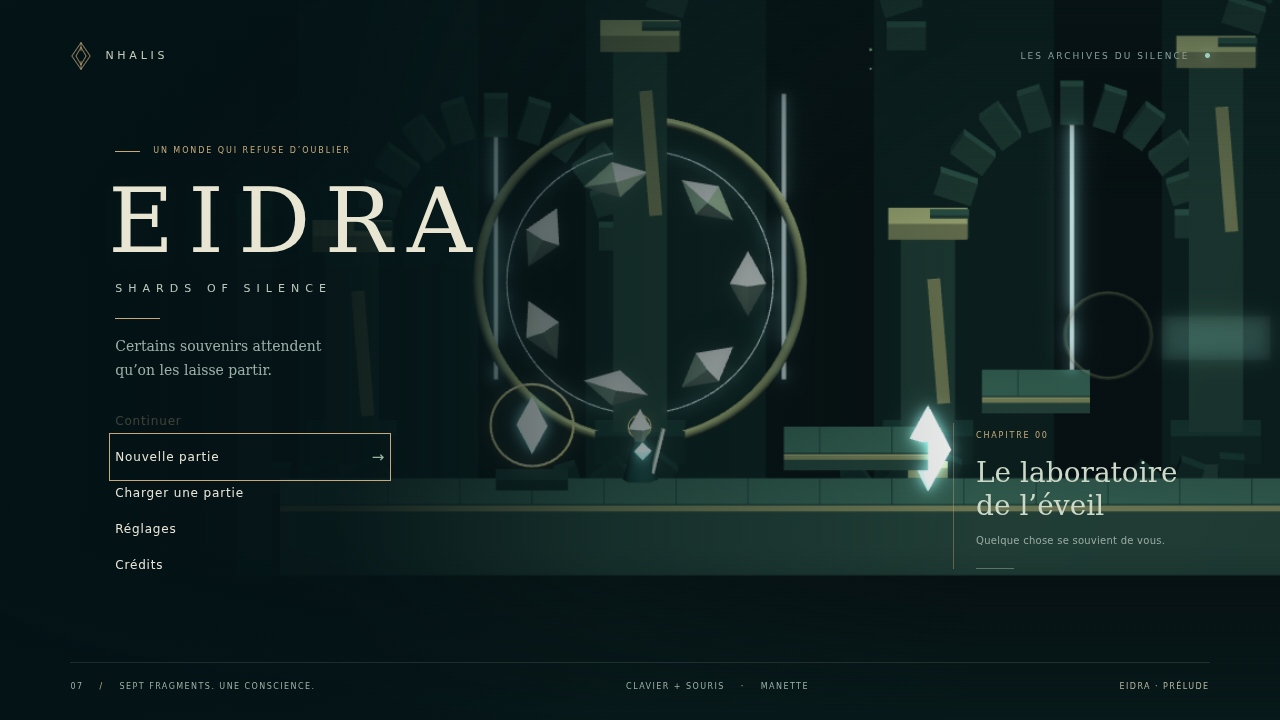
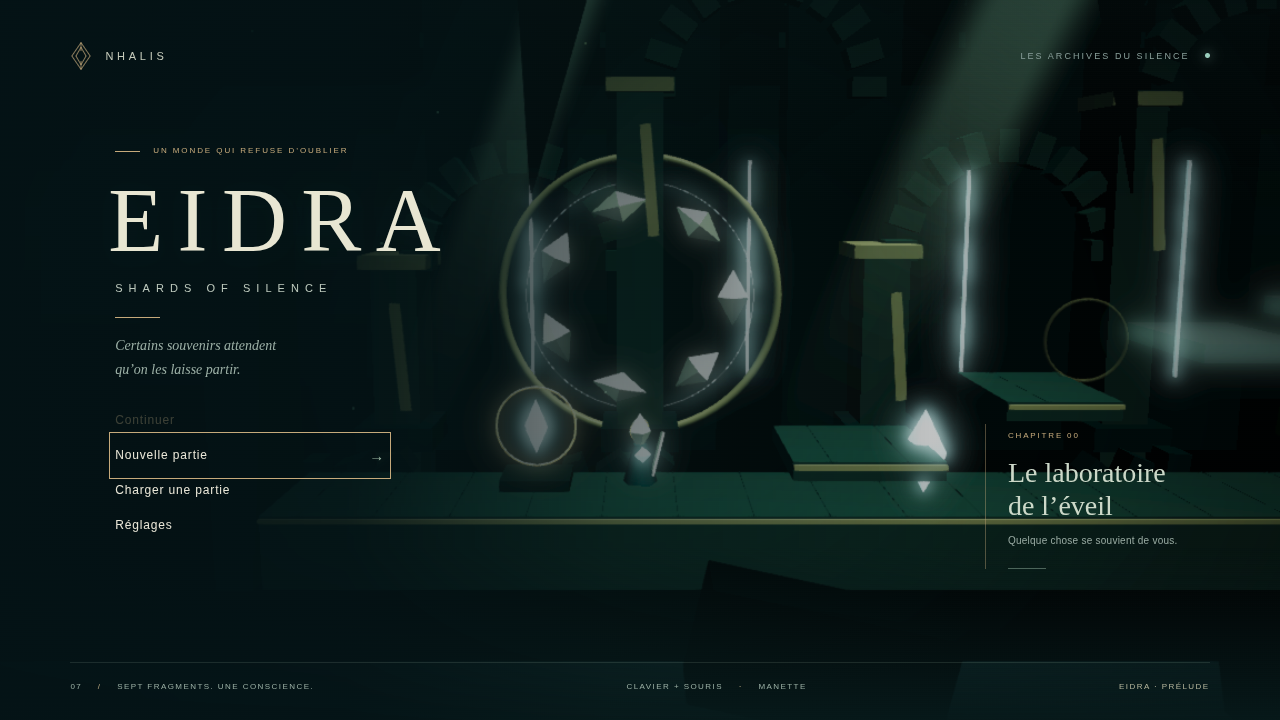
Document the modern game-feel update and refresh performance evidence
- README: new controls (downward strike, riposte, Recueillement, altar)
  and the presentation features.
- GAME_DESIGN, ART_DIRECTION, ARCHITECTURE: mechanics, boss phase two,
  depth layers and the new event/VFX modules.
- DECISIONS D013-D017: perspective camera, single grading pass, fixed-
  step hit-stop, progression without a save version bump, shared RT.
- PERFORMANCE: before/after on the same machine with per-feature costs;
  MEDIUM +11 % software render time, LOW unchanged, CPU unchanged.
- TESTING, RELEASE_NOTES, ROADMAP: coverage, E2E robustness fixes and
  known limits (values not yet playtested, no new sounds).

Claude-Session: https://claude.ai/code/session_01Q4HpwgZSs3YSowU4xBjobR

diff --git a/README.md b/README.md
@@ -24,26 +24,30 @@ Ouvrir l'adresse indiquée par Vite, généralement http://127.0.0.1:4173. Ne pa
 
 ## Commandes
 
-| Action                         | Clavier / souris                       | Manette standard     |
-| ------------------------------ | -------------------------------------- | -------------------- |
-| Déplacement                    | A / D ou flèches                       | Stick gauche / croix |
-| Marcher                        | Ctrl maintenu                          | Stick partiel        |
-| Saut                           | Espace, W ou flèche haut               | A                    |
-| Attaque légère / aérienne      | J / clic gauche                        | X                    |
-| Charger une attaque            | K / clic droit maintenu, puis relâcher | LT                   |
-| Esquive, après acquisition     | Maj                                    | B                    |
-| Parade                         | L                                      | LB                   |
-| Rémanence, après acquisition   | Q                                      | Y                    |
-| Memory Step, après acquisition | R                                      | RB                   |
-| Dialogue / ancrage / passage   | E                                      | RT                   |
-| Carte et souvenirs             | Tab                                    | View                 |
-| Pause                          | Échap                                  | Start                |
+| Action                            | Clavier / souris                       | Manette standard      |
+| --------------------------------- | -------------------------------------- | --------------------- |
+| Déplacement                       | A / D ou flèches                       | Stick gauche / croix  |
+| Marcher                           | Ctrl maintenu                          | Stick partiel         |
+| Saut                              | Espace, W ou flèche haut               | A                     |
+| Attaque légère / aérienne         | J / clic gauche                        | X                     |
+| Plongée (rebond « pogo »)         | S ou flèche bas + attaque, en l’air    | Stick / croix bas + X |
+| Charger une attaque               | K / clic droit maintenu, puis relâcher | LT                    |
+| Esquive, après acquisition        | Maj                                    | B                     |
+| Parade, puis riposte ×2           | L, puis attaque dans la seconde        | LB, puis X            |
+| Recueillement (soin)              | F maintenu, immobile                   | RT maintenu           |
+| Rémanence, après acquisition      | Q                                      | Y                     |
+| Memory Step, après acquisition    | R                                      | RB                    |
+| Dialogue / ancrage / autel / pass | E                                      | RT                    |
+| Carte et souvenirs                | Tab                                    | View                  |
+| Pause                             | Échap                                  | Start                 |
 
-Touches remappables dans Réglages. Assistance facultative : dégâts reçus réduits. La manette permet également de parcourir les boutons des menus avec le stick vertical / la croix et A. Le réglage des sliders reste accessible au clavier / à la souris.
+Touches remappables dans Réglages. Les invites à l’écran suivent le dernier périphérique utilisé (clavier ou manette). Assistance facultative : dégâts reçus réduits. La manette permet également de parcourir les boutons des menus avec le stick vertical / la croix et A. Le réglage des sliders reste accessible au clavier / à la souris.
 
 ## Contenu jouable
 
-Cinq secteurs du laboratoire ; mouvement avec coyote time et jump buffer ; capsule Havok ; dash ; attaques légère, chargée, aérienne et pendant le dash ; combo ; parade ; trois archétypes ennemis ; mini-boss ; Gardien Sans Visage avec trois patterns et deux phases ; Rémanence ; Écho de cinq secondes ; contrepoids ; raccourci de maintenance ; deux souvenirs ; Mira ; transmission de Sael ; ancrages ; trois sauvegardes ; carte ; mort et respawn ; musique et sons originaux temporaires ; quatre presets.
+Cinq secteurs du laboratoire ; mouvement avec coyote time et jump buffer ; capsule Havok ; dash ; attaques légère, chargée, aérienne, plongeante (pogo) et pendant le dash, avec tampon d’entrée ; combo ; parade et riposte ; hit-stop ; Recueillement (soin alimenté par la résonance des coups portés) ; trois archétypes ennemis ; mini-boss ; Gardien Sans Visage avec quatre patterns, deux phases et une transition ; Rémanence ; Écho de cinq secondes ; contrepoids ; raccourci de maintenance ; deux souvenirs ; Mira ; transmission de Sael ; ancrages et autel d’offrandes (éclats → vitalité) ; trois sauvegardes ; carte ; mort et respawn ; musique et sons originaux temporaires ; quatre presets.
+
+Présentation : caméra perspective à longue focale (parallaxe réelle des décors et silhouettes de premier plan), étalonnage ACES et vignette dans les shaders, rayons de lumière, ciel en dégradé, rim light des personnages, squash & stretch, traînée de dash, poussière d’atterrissage, flash blanc à l’impact, dissolution des ennemis, éclats attirés vers Eidra, chiffres de dégâts, barres de vie ennemies, barres « chip », cartes de titre (zones, boss, victoires), bannière de pouvoir, dialogues tapés, invites adaptées au périphérique.
 
 Les sept fragments et trois fins sont définis et leurs conditions sont testées dans le domaine narratif. Ils **ne constituent pas encore une campagne jouable**. Les autres pouvoirs, régions et boss restent dans la roadmap. La durée de 15–20 minutes est une cible de conception, non une durée certifiée par playtest.
 

diff --git a/docs/ROADMAP.md b/docs/ROADMAP.md
@@ -2,26 +2,26 @@
 
 ## État livré : prélude jouable du laboratoire
 
-| Phase                                | État                              | Limite / gate restant                                 |
-| ------------------------------------ | --------------------------------- | ----------------------------------------------------- |
-| 0 — Stack, dépôt, scène, docs, tests | Réalisée                          | Git local ; GitHub connecté, dépôt non accessible     |
-| 1 — Contrôleur, caméra, input        | Jouable et testé                  | Wall slide / wall jump pour la campagne future        |
-| 2 — Combat, dégâts, mort             | Jouable et testé                  | Animation finale et équilibrage humain                |
-| 3 — FSM et trois ennemis             | Jouable et testé                  | Animations finales                                    |
-| 4 — Mini-boss / architecture boss    | Jouable                           | Identité artistique à affiner                         |
-| 5 — Rémanence / Memory Step          | Jouable et testé                  | Playtests puzzles / lisibilité                        |
-| 6 — Sauvegardes, ancrages, respawn   | Réalisée pour le slice            | Qualification quotas / autres navigateurs             |
-| 7 — Streaming et transitions         | Réalisée pour le slice            | Ressources bornées, retour par conduit                |
-| 8 — Biome du slice                   | Prototype jouable                 | Art Blender final, durée et rythme à valider          |
-| 9 — Boss qualité production          | Prototype avancé                  | Trois patterns, deux phases ; polish final restant    |
-| 10 — Narration                       | Prélude jouable + bible           | Révélations et campagne entière restantes             |
-| 11 — Neuf régions                    | Planifiées                        | Interdites avant gate qualité du slice                |
-| 12 — Sept boss principaux            | Planifiés                         | Seul le Gardien est jouable                           |
-| 13 — Audio / VFX / shaders           | Intégration prototype             | Musique, rigs, VFX et textures de production restants |
-| 14 — Performance                     | Instrumentée et mesurée           | 60 FPS sur GPU moyen non certifiés                    |
-| 15 — Accessibilité / input           | Intégrée au slice                 | Tests de manettes physiques et UX supplémentaires     |
-| 16 — QA complet                      | Chromium logiciel + tests domaine | Firefox / Safari / WebGPU matériel restants           |
-| 17 — Release                         | Build et configuration prêts      | Publication requiert l'accès Cloudflare               |
+| Phase                                | État                               | Limite / gate restant                                 |
+| ------------------------------------ | ---------------------------------- | ----------------------------------------------------- |
+| 0 — Stack, dépôt, scène, docs, tests | Réalisée                           | Git local ; GitHub connecté, dépôt non accessible     |
+| 1 — Contrôleur, caméra, input        | Jouable et testé                   | Wall slide / wall jump pour la campagne future        |
+| 2 — Combat, dégâts, mort             | Jouable et testé, game feel ajouté | Animation finale et équilibrage humain                |
+| 3 — FSM et trois ennemis             | Jouable et testé                   | Animations finales                                    |
+| 4 — Mini-boss / architecture boss    | Jouable                            | Identité artistique à affiner                         |
+| 5 — Rémanence / Memory Step          | Jouable et testé                   | Playtests puzzles / lisibilité                        |
+| 6 — Sauvegardes, ancrages, respawn   | Réalisée pour le slice             | Qualification quotas / autres navigateurs             |
+| 7 — Streaming et transitions         | Réalisée pour le slice             | Ressources bornées, retour par conduit                |
+| 8 — Biome du slice                   | Prototype jouable                  | Art Blender final, durée et rythme à valider          |
+| 9 — Boss qualité production          | Prototype avancé                   | Quatre patterns, transition ; polish final restant    |
+| 10 — Narration                       | Prélude jouable + bible            | Révélations et campagne entière restantes             |
+| 11 — Neuf régions                    | Planifiées                         | Interdites avant gate qualité du slice                |
+| 12 — Sept boss principaux            | Planifiés                          | Seul le Gardien est jouable                           |
+| 13 — Audio / VFX / shaders           | Intégration prototype              | Musique, rigs, VFX et textures de production restants |
+| 14 — Performance                     | Instrumentée et mesurée            | 60 FPS sur GPU moyen non certifiés                    |
+| 15 — Accessibilité / input           | Intégrée au slice                  | Tests de manettes physiques et UX supplémentaires     |
+| 16 — QA complet                      | Chromium logiciel + tests domaine  | Firefox / Safari / WebGPU matériel restants           |
+| 17 — Release                         | Build et configuration prêts       | Publication requiert l'accès Cloudflare               |
 
 ## Prochaine séquence
 

diff --git a/docs/DECISIONS.md b/docs/DECISIONS.md
@@ -53,3 +53,23 @@ Une boucle de maintenance relie le contrepoids à la chambre d'éveil après ré
 ## D012 — Atterrissage après dash
 
 Le test navigateur de traversée réelle du pont a révélé une dérive de plusieurs mètres après la fin du dash. La vitesse horizontale revient au maximum de course à la sortie du dash, puis le contrôle aérien normal reprend. Un test de mouvement et une traversée clavier avec atterrissages couvrent cette régression. La patrouille du second Veilleur est bornée par les données de sa berge solide.
+
+## D013 — Caméra perspective à longue focale
+
+La caméra orthographique supprimait toute parallaxe : les couches à z = 7, 22 ou 44 défilaient à la vitesse du plan jouable. Une caméra perspective à 32 m, dont le champ vertical est calculé pour conserver la hauteur visible du plan z = 0 (7,2 / 8,7 / 10 m), garde le cadrage et les tailles de gameplay, et fait défiler arrière-plans et silhouettes de premier plan à leur propre vitesse. Le zoom boss est désormais amorti. Les silhouettes de premier plan restent dans les bandes haute et basse de l'écran pour ne pas masquer la zone jouable.
+
+## D014 — Étalonnage en un seul passage plein écran
+
+Tone mapping ACES, exposition, contraste et vignette utilisent `scene.imageProcessingConfiguration`. Appliqué dans les shaders des matériaux, il coûtait environ 66 ms de rendu logiciel en MEDIUM, car chaque fragment recouvert par les nombreux plans de décor payait l'étalonnage. Un `ImageProcessingPostProcess` unique le remplace : MEDIUM y ajoute FXAA à la place du MSAA, HIGH et ULTRA gardent un MSAA 4× sur la cible du passage, LOW reste sans étalonnage (chemin d'origine). La couche GUI est exclue du post-process (`applyPostProcess = false`). La vignette sert aussi de retour de danger en MEDIUM et au-delà (teinte rouge pulsée sous 30 % de vie, flash à l'impact). Le grain de film est écarté tant qu'une mesure GPU réelle ne le justifie pas.
+
+## D015 — Hit-stop dans le pas fixe
+
+Le hit-stop consomme des pas de simulation complets (50 ms coup simple, 85 ms finisher, 120 ms parade, 200 ms plafonné) sans figer le rendu. Les entrées pressées restent dans le tampon d'`InputManager` et un tampon d'attaque de 0,22 s rejoue une pression faite pendant la récupération : aucune entrée n'est perdue. Les résidus flottants sont arrondis pour qu'un arrêt de 50 ms gèle exactement trois pas à 60 Hz.
+
+## D016 — Progression sans nouvelle version de sauvegarde
+
+Les offrandes d'autel utilisent les champs existants `shards` et `healthUpgrades` du schéma v2 ; la résonance du Recueillement est transitoire et remise à zéro au respawn. Aucune migration n'est nécessaire et les sauvegardes 0.1.0 restent chargeables. Les nouvelles actions `down` et `heal` s'ajoutent aux bindings par défaut ; les remappages existants sont conservés par fusion.
+
+## D017 — RT partagé sur manette
+
+La manette standard n'a plus de bouton libre ergonomique. RT reste « interagir » à l'appui et devient « Recueillement » au maintien. Pour éviter un soin involontaire, le maintien est ignoré à la manette quand une interaction est disponible. Au clavier, F reste une touche dédiée. La plongée utilise le stick ou la croix vers le bas.

diff --git a/docs/TESTING.md b/docs/TESTING.md
@@ -24,6 +24,20 @@ Node 24. Les E2E démarrent le build de production avec Vite preview ; pas de HM
 
 Les fixtures debug positionnent le joueur au début de certaines épreuves et règlent la vie du boss pour vérifier ses transitions. Elles ne prouvent ni un parcours complet sans debug ni l’équilibrage du boss. Déplacement, attaques, capacités, ancrage et traversée du pont passent par les vraies entrées clavier. La Gamepad API est simulée ; ce n’est pas un test de manette physique.
 
+## Mise à jour « ressenti moderne »
+
+42 tests unitaires / intégration dans 11 fichiers. Ajouts : hit-stop (pas gelés, plafond, résidus flottants), tampon d'attaque, riposte après parade, hitbox de plongée, rebond pogo à hauteur fixe, Recueillement (gain, canalisation, interruptions, pas de soin excédentaire), offrandes d'autel (coûts croissants, plafond), Gardien (blindage d'introduction et de transition, pluie d'éclats réservée à la phase 2, projectiles sur les marques), direction « bas » et invites selon le dernier périphérique.
+
+12 parcours E2E. Ajouts : Recueillement alimenté par de vrais coups clavier puis soin en maintenant F ; autel, offrande d'éclats et vitalité conservée après rechargement ; plongée qui rebondit sur un Veilleur et le blesse. Le parcours du boss vérifie la fin de la transition blindée sans perte de vie du Gardien ; l'aide `skipDialogue` tolère les lignes tapées (un premier appui complète la ligne).
+
+Sur un rendu logiciel lent, le pas de simulation est plafonné à 0,1 s par image : une durée réelle fixe couvre alors moins de temps de jeu. Dans le conteneur de cette mise à jour (environ 4 à 7 FPS), le code 0.1.0 non modifié échouait déjà à deux parcours : la porte du contrepoids (touche maintenue 2,4 s) et la traversée du pont. Le parcours de déplacement initial (touche maintenue 600 ms) échouait aussi une fois avec la mise à jour. Corrections, sans retirer d'assertion et avec les vraies entrées clavier :
+
+- les deux parcours à durée fixe maintiennent la touche jusqu'à la condition attendue ;
+- la traversée du pont attend qu'Eidra soit réellement posée après la téléportation de départ. L'indicateur « au sol » pouvait encore décrire l'image précédant la téléportation : le saut, pressé pendant la chute de 20 cm, expirait parfois dans le tampon et Eidra marchait dans le vide ;
+- la plongée attend que le contrôleur signale la chute avant de frapper, pour la même raison.
+
+Après correction : suite complète réussie, traversée du pont 5 / 5 et plongée 5 / 5 en répétition.
+
 ## Qualité restant à qualifier
 
 WebGPU réel, Firefox / Safari, manettes physiques, accessibilité avec lecteurs d’écran, quotas / stockage privé, CSP sur Cloudflare et campagne complète. Le protocole de performance logiciel est décrit dans PERFORMANCE ; il ne certifie pas 60 FPS. Aucun test défaillant n’est désactivé pour rendre la CI verte.

diff --git a/docs/PERFORMANCE.md b/docs/PERFORMANCE.md
@@ -14,7 +14,24 @@ Protocole : build de production, Chromium 153.0.8010.0, WebGL2 / SwiftShader log
 | Draw calls                        |                46 |               22 |
 | Triangles soumis, passes incluses |            52 108 |           26 054 |
 
-Le rendu logiciel est le facteur limitant de ce protocole, avec environ 15 / 27 FPS calculés à partir de la frame médiane. Aucune extrapolation à 60 FPS matériel n’est faite. Mesures brutes : [performance.json](evidence/performance.json).
+Le rendu logiciel est le facteur limitant de ce protocole, avec environ 15 / 27 FPS calculés à partir de la frame médiane. Aucune extrapolation à 60 FPS matériel n’est faite.
+
+## Mise à jour « ressenti moderne » : avant / après
+
+Même protocole, même machine pour les deux colonnes : conteneur cloud, Chromium 141.0.7390.37, SwiftShader. Cette machine est environ 2,5 fois plus lente que celle des mesures 0.1.0 ci-dessus ; seules les comparaisons à l’intérieur de ce tableau sont significatives.
+
+| Mesure (médiane / p95)     | MEDIUM avant     | MEDIUM après     | LOW avant      | LOW après      |
+| -------------------------- | ---------------- | ---------------- | -------------- | -------------- |
+| CPU                        | 3,1 / 7,9 ms     | 3,3 / 7,1 ms     | 2,0 / 5,2 ms   | 2,0 / 5,1 ms   |
+| Rendu logiciel             | 151,5 / 206,6 ms | 168,0 / 218,7 ms | 64,1 / 94,6 ms | 62,0 / 84,7 ms |
+| Draw calls                 | 46               | 54               | 22             | 23             |
+| Triangles, passes incluses | 52 108           | 52 484           | 26 054         | 26 234         |
+
+Coût mesuré de chaque ajout en MEDIUM (rendu logiciel médian, désactivation isolée, première itération) : étalonnage appliqué par fragment dans les matériaux ≈ 66 ms, ciel plein écran ≈ 30 ms, rayons de lumière ≈ 12 ms, silhouettes de premier plan ≈ 6 ms ; caméra perspective, rim light fresnel et flou du glow : non mesurables (< 3 ms). L’étalonnage a donc été déplacé dans un seul passage plein écran (`ImageProcessingPostProcess`), avec FXAA en MEDIUM à la place du MSAA et MSAA 4× conservé en HIGH / ULTRA ; LOW garde le chemin non étalonné, sans ciel ni rayons (D014). Résultat : +11 % de rendu logiciel en MEDIUM, aucun écart en LOW, CPU inchangé.
+
+Douze allers-retours x = 123 / 7 : 257 / 242 meshes, 6 / 5 ressources physiques, 2 / 1 chunks, stables à chaque passage. La hausse du nombre de meshes vient des pools VFX préalloués (étincelles, ondes, éclats, traînée, marqueurs de pluie), désactivés hors usage et sans draw call. Le bundle principal passe à 1,82 Mo minifié / 440 ko gzip.
+
+Mesures brutes : [performance.json](evidence/performance.json) (mesures « après »).
 
 ## Optimisation et stabilité
 

diff --git a/docs/GAME_DESIGN.md b/docs/GAME_DESIGN.md
@@ -14,6 +14,17 @@ Explorer → observer un obstacle → apprendre / combattre → retrouver un sou
 
 Character controller capsule, accélération contrôlée, coyote time et jump buffer. Attaque légère en combo, attaque chargée, attaque aérienne, dash et fenêtre d'esquive. Hitboxes logiques séparées des modèles. Les options d'assistance ne modifient pas les fins.
 
+Ressenti des coups (référence : action-plateformes modernes) : hit-stop court à chaque coup porté, plus long sur les finishers et les parades ; tampon d'attaque de 0,22 s ; zoom bref de la caméra sur les coups lourds ; flash blanc, knockback et chiffres de dégâts sur la cible.
+
+- **Plongée** : en l'air, bas + attaque frappe sous Eidra. Un impact la fait rebondir à hauteur fixe et recharge l'esquive : les ennemis deviennent des appuis.
+- **Parade → riposte** : une parade réussie remet son délai à zéro et ouvre une fenêtre d'une seconde où la prochaine attaque inflige le double et étourdit davantage. La lame s'illumine d'or tant que la riposte est disponible.
+- **Recueillement** : chaque coup porté donne 11 de résonance (22 pour une parade), jusqu'à 99, soit trois segments. Maintenir le soin immobile pendant 0,8 s dépense un segment et rend 32 points de vie. Sauter, esquiver, attaquer ou être touché interrompt la canalisation. La résonance est perdue à la mort.
+- **Autel des ancrages** : interagir avec l'ancrage déjà actif ouvre l'autel (repos, sauvegarde) et permet d'offrir des éclats pour +20 de vitalité maximale : 10, 20 puis 35 éclats.
+
+## Gardien Sans Visage
+
+Phase 1 : balayage, onde au sol, charge. Sous 50 % de vie, une transition blindée de 1,6 s (rugissement, onde de choc) ouvre la phase 2 : télégraphes raccourcis de 15 % et **pluie d'éclats**, cinq impacts marqués au sol et au plafond autour de la position d'Eidra, espacés de 2,6 m. Le Gardien est également blindé pendant son introduction. Chaque pattern est annoncé dans la barre de vie (« ONDE — SAUTEZ », « PLUIE D'ÉCLATS — QUITTEZ LES MARQUES »).
+
 ## Mémoire
 
 Rémanence révèle des structures disparues ; Memory Step rejoue une trace temporelle pour maintenir un mécanisme. Les autres capacités sont prévues après validation du slice.

diff --git a/docs/ARCHITECTURE.md b/docs/ARCHITECTURE.md
@@ -30,6 +30,8 @@ GameError, ConfigurationError, AssetLoadError et SaveError. Échec critique : é
 
 `Game` gère les états, la boucle à pas fixe 1/60 s (rattrapage borné à six pas), les menus et les services. `GameSession` relie les systèmes de domaine, le contrôleur et les événements de progression. `Presentation`, `CharacterView`, `Hud` et `EffectPool` consomment l’état sans décider des dégâts ou des conditions narratives. Les touches restent dans `InputManager`, remappables via `InputAction`.
 
+`GameSession` émet des événements typés (`ENEMY_DAMAGED`, `ENEMY_DEFEATED`, `PLAYER_HEALED`, `PARRIED`, `OFFERING_MADE`) que `Game` relaie vers `Hud` (chiffres, barres ennemies) et `Presentation` (flashs, ondes, éclats). Les effets visuels réutilisables vivent dans `vfx` : `SlashArc` (croissant de lame), `Afterimages` (traînée de dash), `Motes` (éclats attirés, canalisation), `EffectPool` (étincelles, poussière, ondes de choc) et `textures` (dégradés procéduraux TODO_ART). `CharacterView` reçoit une `Pose` purement visuelle (squash & stretch, flash, canalisation, dissolution). `Backdrop` dessine le ciel lointain ; `CameraRig` est une caméra perspective à longue focale (voir D013).
+
 `SceneManager` conserve seulement les secteurs proches, puis libère chaque `ChunkView`. `World` possède les colliders simples et portes temporaires. Les corps mémoire sont créés / détruits quand Rémanence change ; aucune physique n’est attachée à un modèle artistique complexe. `AssetLoader` prépare le chargement GLB asynchrone avec annulation et libération ; le blockout du prélude est actuellement procédural.
 
 Les ressources répétées des impacts et projectiles visuels sont préallouées. Les meshes statiques sont fusionnés par matériau, sauf les éléments interactifs. Les décodeurs WASM et JS sont servis localement. L’audio Babylon V2 utilise des boucles OGG originales, un crossfade et des effets spatiaux, avec secours WAV explicite.

diff --git a/docs/RELEASE_NOTES.md b/docs/RELEASE_NOTES.md
@@ -1,3 +1,21 @@
+# Mise à jour « ressenti moderne » du prélude
+
+## Livré
+
+- **Combat** : hit-stop, tampon d'attaque, plongée avec rebond (pogo) qui recharge l'esquive, riposte ×2 dans la seconde qui suit une parade, parade sans délai après réussite.
+- **Soin** : Recueillement, alimenté par la résonance des coups portés et des parades, interrompu par les dégâts.
+- **Progression** : autel des ancrages, offrandes d'éclats pour +20 de vitalité (trois paliers), sans changement du format de sauvegarde v2.
+- **Boss** : introduction et transition de phase blindées, carte de titre, pluie d'éclats télégraphiée en phase 2, barre de vie avec « chip », repère de phase et annonce du pattern.
+- **Rendu** : caméra perspective à longue focale (parallaxe), ciel en dégradé, ligne d'horizon, silhouettes de premier plan, rayons de lumière, étalonnage ACES et vignette de danger, rim light des personnages.
+- **Animation / VFX** : squash & stretch, inclinaison en course, flash blanc, dissolution des ennemis, croissant de lame, traînée de dash, poussière d'atterrissage, ondes de choc, éclats attirés vers Eidra, canalisation visible.
+- **Interface** : HUD refondu (vie segmentée avec chip, résonance, éclats), chiffres de dégâts et de soin, barres de vie ennemies, cartes de titre de zones, bannière de pouvoir, dock circulaire avec temps de recharge, invites adaptées au dernier périphérique, dialogues tapés (le premier appui complète la ligne), écran d'autel.
+
+## Limites connues de cette mise à jour
+
+- Les valeurs (résonance, coûts d'offrande, durées de hit-stop, pluie d'éclats) sont des propositions de conception ; aucun playtest humain ne les a encore validées.
+- Pas de nouveaux sons : le soin et les offrandes réutilisent les sons d'ancrage existants.
+- Les mesures de performance restent logicielles (SwiftShader) ; voir PERFORMANCE.
+
 # EIDRA 0.1.0 — Prélude du laboratoire
 
 ## Livré

diff --git a/docs/ART_DIRECTION.md b/docs/ART_DIRECTION.md
@@ -8,6 +8,12 @@ Eidra : silhouette étroite, manteau à pans géométriques, noyau lumineux, mas
 
 Le plan jouable reçoit le contraste le plus fort. Arrière-plan désaturé et brume. Lumières emissives ; peu de lumières dynamiques. VFX réservés aux informations utiles. Réduction des mouvements et réglage des flashs prévus.
 
+## Profondeur et lumière
+
+Cinq plans lisibles : ciel en dégradé qui se fond dans la brume, ligne d'horizon de tours à z = 44, colonnades et arches, plan jouable, silhouettes quasi noires au premier plan (dents de pierre en haut, éboulis en bas). La caméra perspective (D013) donne à chaque plan sa vitesse de défilement. Des rayons additifs tombent des fenêtres. L'étalonnage ACES et la vignette resserrent le regard sur le centre ; la vignette rougit quand Eidra est en danger. En LOW, rayons, ciel et étalonnage sont coupés pour la performance (D014).
+
+Personnages : rim light fresnel vert d'eau pour Eidra, ambre pour les ennemis, afin de détacher les silhouettes de la pierre. Les coups se lisent par un croissant de lame (ivoire, cristal pour la charge, or pour la riposte), un flash blanc, un hit-stop et des éclats. Les ennemis vaincus se dissolvent en blanc au lieu de disparaître.
+
 ## Production
 
 Les modèles procéduraux initiaux portent le statut TODO_ART. Aucun asset généré ne prétend être un modèle final Blender. Pas de textures externes pour le prototype ; textures de production KTX2 / Basis, plafonds de 512 à 2048 px.
